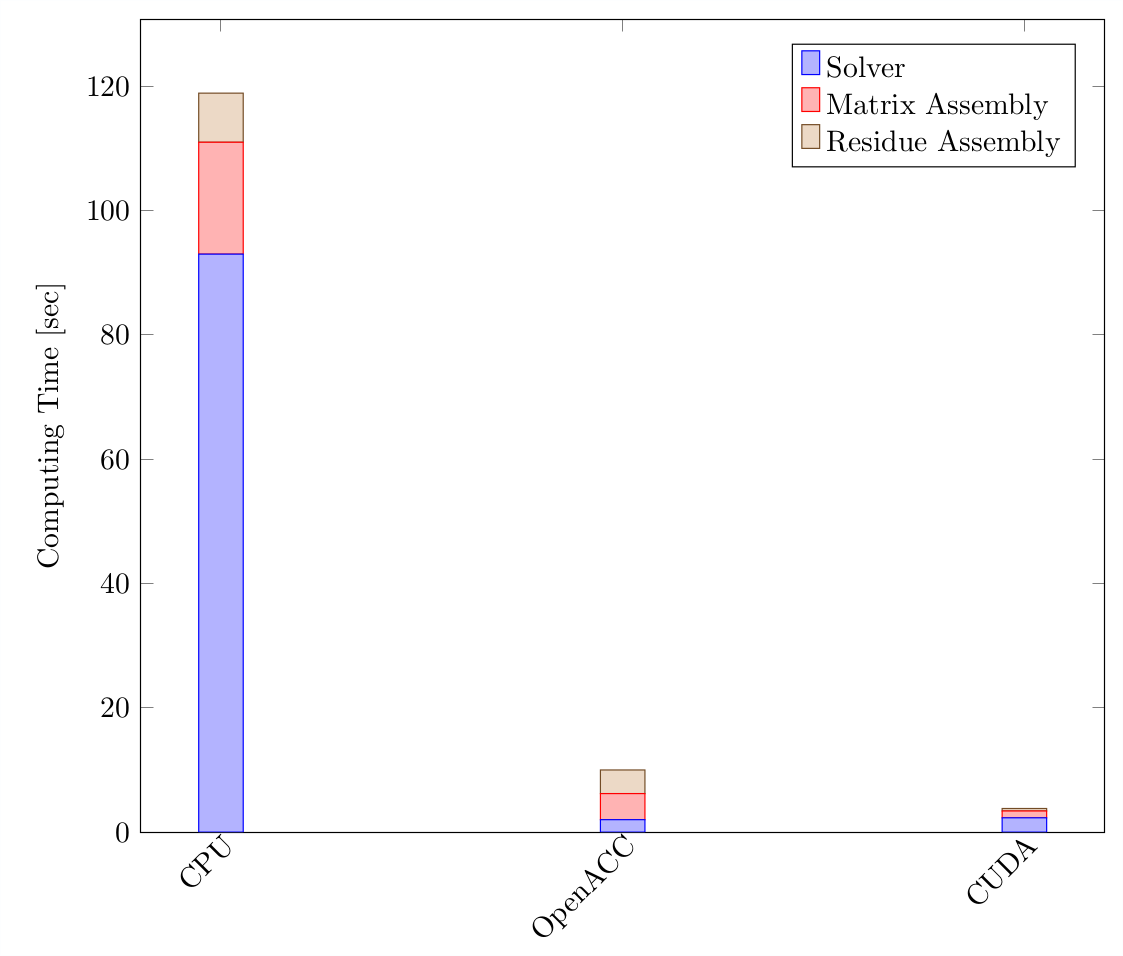
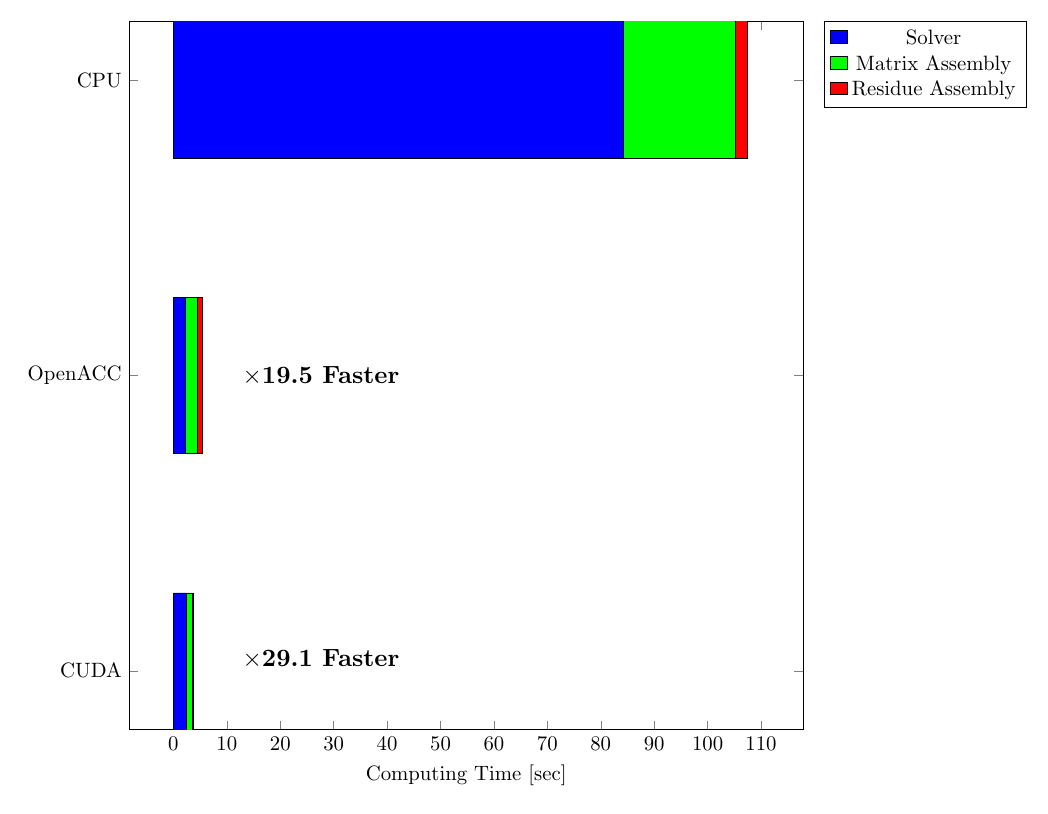
Adding CPU-only, OpenACC and CUDA plots

diff --git a/pics/acc-cuda.tex b/pics/acc-cuda.tex
@@ -1,0 +1,64 @@
+\documentclass[border=10pt]{standalone}
+\usepackage{pgfplots}
+\usepackage{tikz}
+%\pgfplotsset{width=13cm,compat=1.8}
+
+\begin{document}
+\begin{tikzpicture}[]
+  \begin{axis}[scale=1.0,
+      xbar stacked,
+      bar width=75pt,
+      %ybar=1pt,
+      %width = 1cm,
+      %enlargelimits=0.15,
+      y=5cm,
+      xlabel={Computing Time [sec]},
+      symbolic y coords={CUDA,OpenACC},
+      %y tick label style={at={axis cs:(0.5,0.5)}rotate=45, anchor=north east, inner sep=0mm},
+      ytick=data,
+      legend pos=outer north east,
+      %legend cell align={left},
+      legend style={fill=white},
+      %legend style={at={(0.5,0.5)},fill=white,anchor=south west} 
+      nodes near coords align={horizontal}
+    ]
+    \addplot[fill=blue,xbar] plot coordinates {
+      (2.2,OpenACC) 
+      (2.5,CUDA) 
+    }; % sol cpu
+    \addplot[fill=green,xbar] plot coordinates {
+      (2.2,OpenACC)
+      (1.1,CUDA)
+    }; % mat
+    \addplot[fill=red,xbar] plot coordinates {
+      (1.1,OpenACC)
+      (0.07,CUDA)
+    }; % res cpu
+
+    \legend{Solver, Matrix Assembly, Residue Assembly};
+    %\draw[->, blue, line width=1mm] (-0.1cm,3cm) node[red, right] {$\times$\textbf{0.84}} -- ++(0,-1cm);
+    %\draw[->, green, line width=1mm] (1.6cm,3cm) node[black, right] {$\times$\textbf{2}} -- ++(0,-1cm);
+    %\draw[->, red, line width=1mm] (3.6cm,3cm) node[black, right] {$\times$\textbf{15.7}} -- ++(-1cm,-1cm);
+    \node[scale=1.2] at (4.3cm,1.0cm) {$\times$\textbf{1.5 Faster}};
+  \end{axis}
+\end{tikzpicture}
+
+% CPU
+%ell_solve_cgpd 84251302
+%assembly_mat   21056894
+%assembly_rhs   2199559 
+%total 107.5
+
+% OpenACC
+%ell_solve_cgpd 2158738         
+%assembly_mat   2200091          
+%assembly_rhs   1055412           
+%total 5.5 
+
+% CUDA
+%ell_solve_cgpd 2543878 
+%assembly_mat   1114047
+%assembly_rhs   73563
+%total 3.7
+
+\end{document}

diff --git a/pics/cpu-acc-cuda.tex b/pics/cpu-acc-cuda.tex
@@ -1,0 +1,65 @@
+\documentclass[border=10pt]{standalone}
+\usepackage{pgfplots}
+\usepackage{tikz}
+\pgfplotsset{width=13cm,compat=1.8}
+
+\begin{document}
+\begin{tikzpicture}[]
+  \begin{axis}[scale=1.0,
+      xbar stacked,
+      bar width=75pt,
+      %ybar=1pt,
+      %width = 1cm,
+      %enlargelimits=0.15,
+      y=5cm,
+      xlabel={Computing Time [sec]},
+      symbolic y coords={CUDA,OpenACC,CPU},
+      %y tick label style={at={axis cs:(0.5,0.5)}rotate=45, anchor=north east, inner sep=0mm},
+      ytick=data,
+      legend pos=outer north east,
+      %legend cell align={left},
+      legend style={fill=white},
+      %legend style={at={(0.5,0.5)},fill=white,anchor=south west} 
+      nodes near coords align={horizontal}
+    ]
+    \addplot[fill=blue,xbar] plot coordinates {
+      (84.2,CPU)
+      (2.2,OpenACC) 
+      (2.5,CUDA) 
+    }; % sol cpu
+    \addplot[fill=green,xbar] plot coordinates {
+      (21.1,CPU)
+      (2.2,OpenACC)
+      (1.1,CUDA)
+    }; % mat
+    \addplot[fill=red,xbar] plot coordinates {
+      (2.1,CPU)
+      (1.1,OpenACC)
+      (0.07,CUDA)
+    }; % res cpu
+
+    \legend{Solver, Matrix Assembly, Residue Assembly};
+    \node[scale=1.2] at (2.3cm,5.0cm) {$\times$\textbf{19.5 Faster}};
+    \node[scale=1.2] at (2.3cm,0.2cm) {$\times$\textbf{29.1 Faster}};
+  \end{axis}
+\end{tikzpicture}
+
+% CPU
+%ell_solve_cgpd 84251302
+%assembly_mat   21056894
+%assembly_rhs   2199559 
+%total 107.5
+
+% OpenACC
+%ell_solve_cgpd 2158738         
+%assembly_mat   2200091          
+%assembly_rhs   1055412           
+%total 5.5 
+
+% CUDA
+%ell_solve_cgpd 2543878 
+%assembly_mat   1114047
+%assembly_rhs   73563
+%total 3.7
+
+\end{document}

diff --git a/README.md b/README.md
@@ -40,12 +40,12 @@ micro-scale problems.
 The peformance using the hybrid CPU/GPU execution in notably better
 than CPU-only:
 
-<img src="./pics/cpu-acc-cuda.png" alt="drawing" width="300"/>
+<img src="./pics/cpu-acc-cuda.png" alt="drawing" width="500"/>
 
 For hybrid CPU/GPU the parallelization with CUDA has proven better
 perfomance than OpenACC:
 
-<img src="./pics/acc-cuda.png" alt="drawing" width="300"/>
+<img src="./pics/acc-cuda.png" alt="drawing" width="500"/>
 
 Currently CUDA acceleration only works with some parts of the code and
 has not been completely integrated.
@@ -78,7 +78,7 @@ cmake -DCMAKE_BUILD_TYPE=Debug ..
 
 Other possible options are:
 
-1. `CUDA=[ON|OFF]` compiles with CUDA
-2. `OPENACC=[ON|OFF]` compiles with OpenACC (only supported by some compilers such as PGI)
-3. `OPENMP=[ON|OFF]` compiles with OpenMP for multi-core CPUs
-4. `TIMER=[ON|OFF]` activate the native instrumentation for measuring times
+1. `ENABLE_CUDA=[ON|OFF]` compiles with CUDA
+2. `ENABLE_OPENACC=[ON|OFF]` compiles with OpenACC (only supported by some compilers such as PGI)
+3. `ENABLE_OPENMP=[ON|OFF]` compiles with OpenMP for multi-core CPUs
+4. `ENABLE_TIMER=[ON|OFF]` activate the native instrumentation for measuring times
